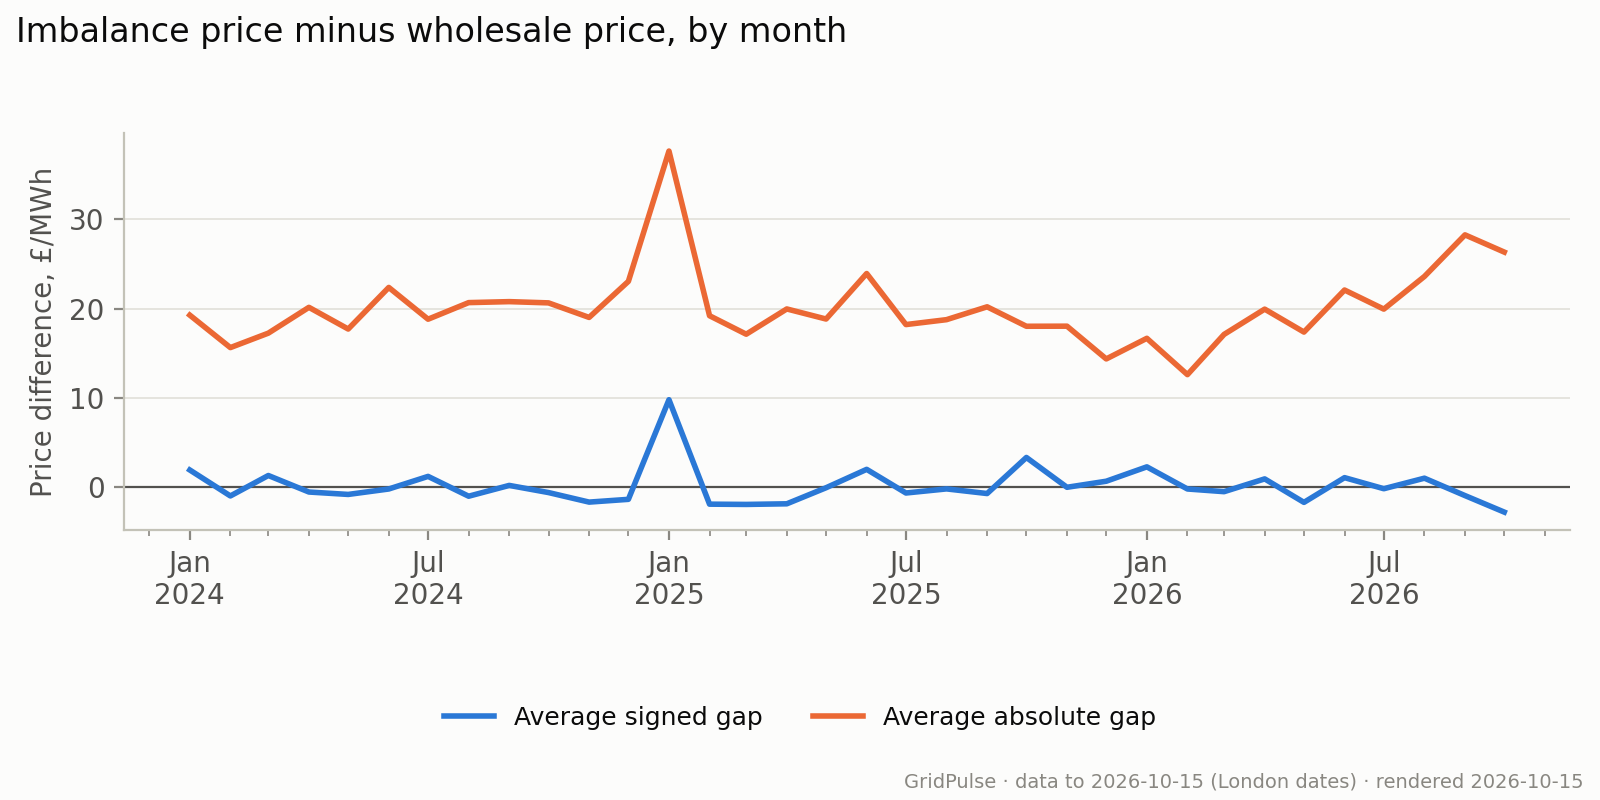
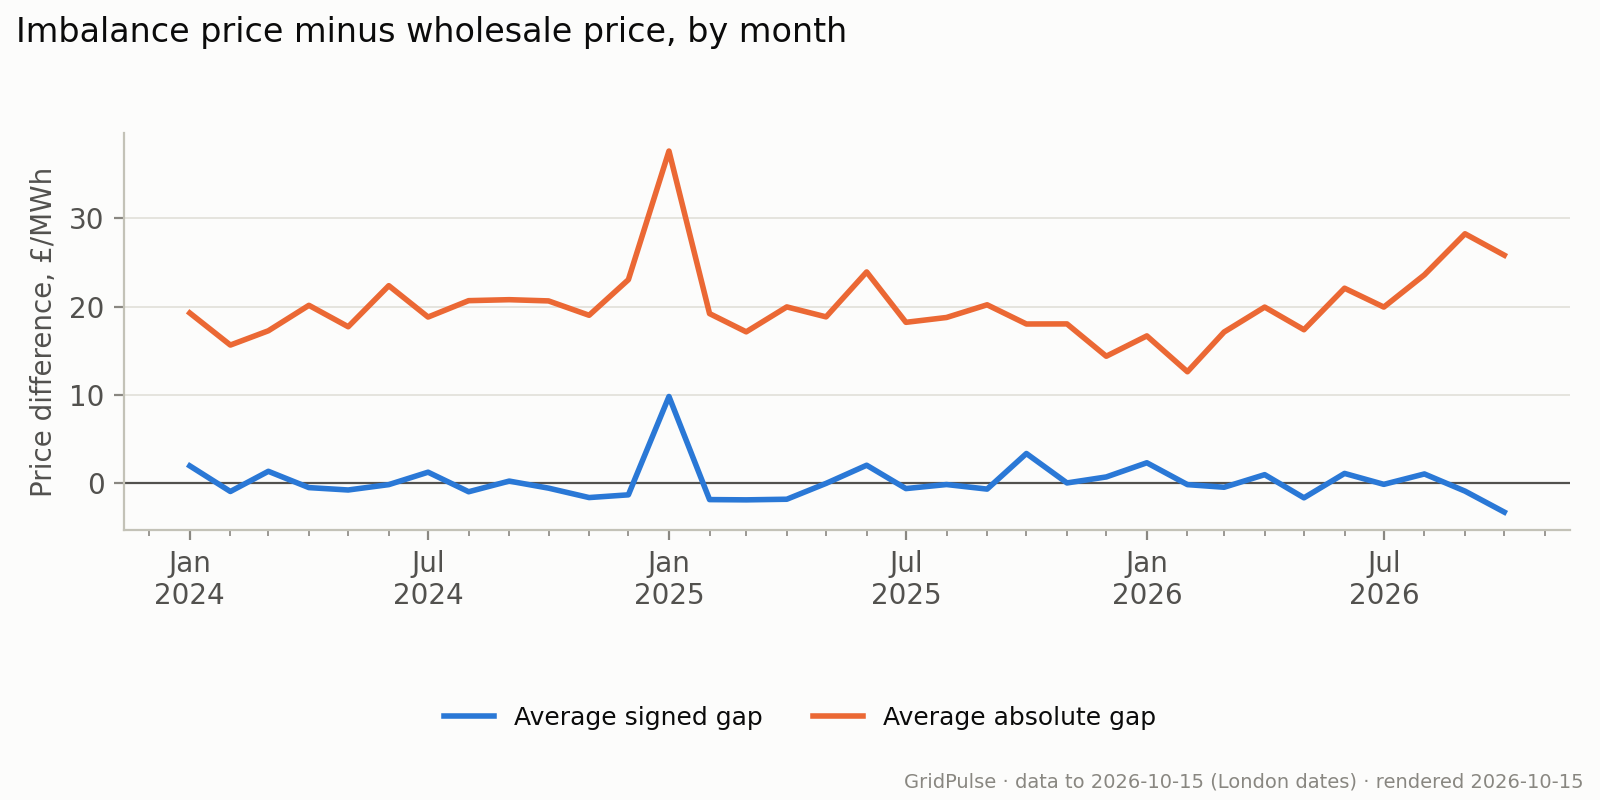
Rebuild from data to 2026-10-15, built 2026-10-15 20:50 UTC

diff --git a/index.html b/index.html
@@ -68,12 +68,12 @@ how electricity flows across borders, and how accurately demand is forecast.</p>
 <div><a href="#prices"><strong>Prices and grid conditions</strong></a><ul><li><a href="#negative_frequency">Negative Wholesale Price Frequency</a></li><li><a href="#negative_conditions">Grid Conditions During Negative Prices</a></li><li><a href="#imbalance_spread">Imbalance and Wholesale Price Gap</a></li><li><a href="#imbalance_conditions">Imbalance Prices by Grid Conditions</a></li></ul></div>
 <div><a href="#forecast-accuracy"><strong>Forecast accuracy</strong></a><ul><li><a href="#demand_accuracy">Average Demand Forecast Error by Hours Ahead</a></li><li><a href="#carbon_accuracy">Carbon Forecast Error by Month</a></li></ul></div>
 <div><a href="#data-quality"><strong>Data quality</strong></a><ul><li><a href="#coverage">Monthly Data Coverage</a></li><li><a href="#publication_coverage">Demand Forecast Publication Coverage</a></li></ul></div></nav></details>
-<p class="banner" id="built" data-built="2026-10-15T14:50:22Z" data-ingested="2026-10-15T14:00:34Z">
-Analysis built 2026-10-15 14:50 UTC. Each chart uses its stated window;
+<p class="banner" id="built" data-built="2026-10-15T20:50:18Z" data-ingested="2026-10-15T20:00:29Z">
+Analysis built 2026-10-15 20:50 UTC. Each chart uses its stated window;
 current-month results are provisional. Scheduled refresh: every 6 hours.</p>
 <details class="provenance"><summary>Data dates and source code</summary>
 <p class="meta">National carbon actuals: data to 2026-10-15 (London dates).
-Most recent ingestion across sources: 2026-10-15 14:00 UTC.
+Most recent ingestion across sources: 2026-10-15 20:00 UTC.
 These timestamps do not establish completeness or freshness for every source.
 “As of” refers to the build date. Select a chart to view it full size.</p>
 <a href="https://github.com/thrkld/gridpulse">Python, SQL and dbt project on GitHub</a></details>
@@ -203,14 +203,14 @@ These timestamps do not establish completeness or freshness for every source.
 <p>The lines compare the imbalance settlement price, used to settle differences between contracted and actual electricity volumes, with the APX wholesale price index. Blue shows imbalance price minus wholesale price: above zero means imbalance prices were higher. Orange shows the average size of the gap, regardless of which price was higher.</p>
 <div class="finding">
 <h4>Findings (as of 15 October 2026)</h4>
-<p>Across 48,838 matched half hours since 2024, imbalance prices averaged £0.20/MWh above wholesale prices. The average absolute gap was £20.02/MWh; it measures the size of differences in either direction.</p>
+<p>Across 48,838 matched half hours since 2024, imbalance prices averaged £0.19/MWh above wholesale prices. The average absolute gap was £20.01/MWh; it measures the size of differences in either direction.</p>
 </div>
 <a href="charts/imbalance_spread.png" aria-label="View full-size chart: Imbalance and Wholesale Price Gap"><img src="charts/imbalance_spread.png" alt="Imbalance and Wholesale Price Gap"></a>
 <p class="meta"><a href="charts/imbalance_spread.png">Open full-size chart</a></p>
 <h4>Limitations</h4>
 <p class="caveat">The gap is not a participant&#x27;s realised trading profit or imbalance cost. Monthly means can conceal large individual price spikes. The current month is incomplete.</p>
 <details><summary>How to read this graph and methodology</summary><p>For each half hour with both prices since January 2024, subtract wholesale price from imbalance price. Average these differences within each month for the blue line: above zero means imbalance prices were higher. For the orange line, take the absolute value of each difference before averaging, so positive and negative gaps cannot cancel. The overall finding weights monthly means by their matched-period counts; minor rounding differences are possible. Prices are in pounds per megawatt-hour (£/MWh), and today is excluded.</p></details>
-<details><summary>Numbers behind the chart</summary><div class="table-scroll" tabindex="0" role="region" aria-label="Data for Imbalance and Wholesale Price Gap"><table><thead><tr><th>Month</th><th>Mean spread GBP/MWh</th><th>Mean absolute spread GBP/MWh</th><th>Matched periods</th></tr></thead><tbody><tr><td>2024-01-01</td><td>1.92</td><td>19.27</td><td>1488</td></tr><tr><td>2024-02-01</td><td>-0.99</td><td>15.63</td><td>1392</td></tr><tr><td>2024-03-01</td><td>1.3</td><td>17.25</td><td>1486</td></tr><tr><td>2024-04-01</td><td>-0.55</td><td>20.14</td><td>1439</td></tr><tr><td>2024-05-01</td><td>-0.82</td><td>17.71</td><td>1488</td></tr><tr><td>2024-06-01</td><td>-0.21</td><td>22.37</td><td>1440</td></tr><tr><td>2024-07-01</td><td>1.2</td><td>18.81</td><td>1488</td></tr><tr><td>2024-08-01</td><td>-1.02</td><td>20.67</td><td>1488</td></tr><tr><td>2024-09-01</td><td>0.19</td><td>20.78</td><td>1440</td></tr><tr><td>2024-10-01</td><td>-0.61</td><td>20.64</td><td>1490</td></tr><tr><td>2024-11-01</td><td>-1.68</td><td>19.01</td><td>1440</td></tr><tr><td>2024-12-01</td><td>-1.37</td><td>23.05</td><td>1488</td></tr><tr><td>2025-01-01</td><td>9.79</td><td>37.65</td><td>1488</td></tr><tr><td>2025-02-01</td><td>-1.91</td><td>19.2</td><td>1344</td></tr><tr><td>2025-03-01</td><td>-1.94</td><td>17.13</td><td>1486</td></tr><tr><td>2025-04-01</td><td>-1.87</td><td>19.96</td><td>1440</td></tr><tr><td>2025-05-01</td><td>-0.07</td><td>18.83</td><td>1488</td></tr><tr><td>2025-06-01</td><td>1.99</td><td>23.93</td><td>1430</td></tr><tr><td>2025-07-01</td><td>-0.66</td><td>18.21</td><td>1488</td></tr><tr><td>2025-08-01</td><td>-0.2</td><td>18.76</td><td>1488</td></tr><tr><td>2025-09-01</td><td>-0.72</td><td>20.2</td><td>1439</td></tr><tr><td>2025-10-01</td><td>3.32</td><td>18.02</td><td>1490</td></tr><tr><td>2025-11-01</td><td>-0.02</td><td>18.03</td><td>1440</td></tr><tr><td>2025-12-01</td><td>0.66</td><td>14.36</td><td>1488</td></tr><tr><td>2026-01-01</td><td>2.27</td><td>16.67</td><td>1488</td></tr><tr><td>2026-02-01</td><td>-0.21</td><td>12.6</td><td>1344</td></tr><tr><td>2026-03-01</td><td>-0.51</td><td>17.11</td><td>1486</td></tr><tr><td>2026-04-01</td><td>0.92</td><td>19.94</td><td>1440</td></tr><tr><td>2026-05-01</td><td>-1.71</td><td>17.37</td><td>1486</td></tr><tr><td>2026-06-01</td><td>1.06</td><td>22.08</td><td>1440</td></tr><tr><td>2026-07-01</td><td>-0.18</td><td>19.94</td><td>1482</td></tr><tr><td>2026-08-01</td><td>1</td><td>23.6</td><td>1488</td></tr><tr><td>2026-09-01</td><td>-0.95</td><td>28.26</td><td>1436</td></tr><tr><td>2026-10-01</td><td>-2.8</td><td>26.33</td><td>672</td></tr></tbody></table></div></details>
+<details><summary>Numbers behind the chart</summary><div class="table-scroll" tabindex="0" role="region" aria-label="Data for Imbalance and Wholesale Price Gap"><table><thead><tr><th>Month</th><th>Mean spread GBP/MWh</th><th>Mean absolute spread GBP/MWh</th><th>Matched periods</th></tr></thead><tbody><tr><td>2024-01-01</td><td>1.92</td><td>19.27</td><td>1488</td></tr><tr><td>2024-02-01</td><td>-0.99</td><td>15.63</td><td>1392</td></tr><tr><td>2024-03-01</td><td>1.3</td><td>17.25</td><td>1486</td></tr><tr><td>2024-04-01</td><td>-0.55</td><td>20.14</td><td>1439</td></tr><tr><td>2024-05-01</td><td>-0.82</td><td>17.71</td><td>1488</td></tr><tr><td>2024-06-01</td><td>-0.21</td><td>22.37</td><td>1440</td></tr><tr><td>2024-07-01</td><td>1.2</td><td>18.81</td><td>1488</td></tr><tr><td>2024-08-01</td><td>-1.02</td><td>20.67</td><td>1488</td></tr><tr><td>2024-09-01</td><td>0.19</td><td>20.78</td><td>1440</td></tr><tr><td>2024-10-01</td><td>-0.61</td><td>20.64</td><td>1490</td></tr><tr><td>2024-11-01</td><td>-1.68</td><td>19.01</td><td>1440</td></tr><tr><td>2024-12-01</td><td>-1.37</td><td>23.05</td><td>1488</td></tr><tr><td>2025-01-01</td><td>9.79</td><td>37.65</td><td>1488</td></tr><tr><td>2025-02-01</td><td>-1.91</td><td>19.2</td><td>1344</td></tr><tr><td>2025-03-01</td><td>-1.94</td><td>17.13</td><td>1486</td></tr><tr><td>2025-04-01</td><td>-1.87</td><td>19.96</td><td>1440</td></tr><tr><td>2025-05-01</td><td>-0.07</td><td>18.83</td><td>1488</td></tr><tr><td>2025-06-01</td><td>1.99</td><td>23.93</td><td>1430</td></tr><tr><td>2025-07-01</td><td>-0.66</td><td>18.21</td><td>1488</td></tr><tr><td>2025-08-01</td><td>-0.2</td><td>18.76</td><td>1488</td></tr><tr><td>2025-09-01</td><td>-0.72</td><td>20.2</td><td>1439</td></tr><tr><td>2025-10-01</td><td>3.32</td><td>18.02</td><td>1490</td></tr><tr><td>2025-11-01</td><td>-0.02</td><td>18.03</td><td>1440</td></tr><tr><td>2025-12-01</td><td>0.66</td><td>14.36</td><td>1488</td></tr><tr><td>2026-01-01</td><td>2.27</td><td>16.67</td><td>1488</td></tr><tr><td>2026-02-01</td><td>-0.21</td><td>12.6</td><td>1344</td></tr><tr><td>2026-03-01</td><td>-0.51</td><td>17.11</td><td>1486</td></tr><tr><td>2026-04-01</td><td>0.92</td><td>19.94</td><td>1440</td></tr><tr><td>2026-05-01</td><td>-1.71</td><td>17.37</td><td>1486</td></tr><tr><td>2026-06-01</td><td>1.06</td><td>22.08</td><td>1440</td></tr><tr><td>2026-07-01</td><td>-0.18</td><td>19.94</td><td>1482</td></tr><tr><td>2026-08-01</td><td>1</td><td>23.6</td><td>1488</td></tr><tr><td>2026-09-01</td><td>-0.95</td><td>28.26</td><td>1436</td></tr><tr><td>2026-10-01</td><td>-3.33</td><td>25.83</td><td>672</td></tr></tbody></table></div></details>
 </section>
 <section class="chart" id="imbalance_conditions">
 <h3 class="chart-title">Imbalance Prices by Grid Conditions</h3>
@@ -225,7 +225,7 @@ These timestamps do not establish completeness or freshness for every source.
 <h4>Limitations</h4>
 <p class="caveat">Averages in small groups are unstable and sensitive to extreme prices. Demand and renewable share alone cannot explain price formation; season, fuel prices and system constraints also vary.</p>
 <details><summary>How to read this graph and methodology</summary><p>Rows are 5 GW demand bands; columns are 20-percentage-point renewable bands. Lower bounds are included and upper bounds excluded, except the final renewable band includes 100%. Renewables comprises wind, solar and hydro. Red means a positive average price; blue means a negative average, with stronger colour indicating a larger magnitude. Every eligible half hour since January 2024 needs positive settled demand, a renewable share from 0% to 100% and an imbalance price. The colour scale and headline only compare groups with at least 100 observations, a descriptive filter rather than a statistical significance test. All other observed averages remain labelled in striped cells and listed in the data table. Today is excluded.</p></details>
-<details><summary>Numbers behind the chart</summary><div class="table-scroll" tabindex="0" role="region" aria-label="Data for Imbalance Prices by Grid Conditions"><table><thead><tr><th>Demand bin lower bound GW</th><th>Renewable bin lower bound %</th><th>Mean imbalance price GBP/MWh</th><th>Matched periods</th></tr></thead><tbody><tr><td>10</td><td>40</td><td>60.34</td><td>45</td></tr><tr><td>10</td><td>60</td><td>-7.07</td><td>119</td></tr><tr><td>15</td><td>0</td><td>85.6</td><td>710</td></tr><tr><td>15</td><td>20</td><td>81.71</td><td>2030</td></tr><tr><td>15</td><td>40</td><td>57.59</td><td>2729</td></tr><tr><td>15</td><td>60</td><td>10.61</td><td>1962</td></tr><tr><td>15</td><td>80</td><td>13.92</td><td>7</td></tr><tr><td>20</td><td>0</td><td>93.46</td><td>2153</td></tr><tr><td>20</td><td>20</td><td>91.67</td><td>6150</td></tr><tr><td>20</td><td>40</td><td>79.05</td><td>6281</td></tr><tr><td>20</td><td>60</td><td>33.82</td><td>2691</td></tr><tr><td>25</td><td>0</td><td>107.18</td><td>1981</td></tr><tr><td>25</td><td>20</td><td>100.56</td><td>5644</td></tr><tr><td>25</td><td>40</td><td>88.28</td><td>3884</td></tr><tr><td>25</td><td>60</td><td>56.67</td><td>1181</td></tr><tr><td>30</td><td>0</td><td>115.53</td><td>1165</td></tr><tr><td>30</td><td>20</td><td>94.46</td><td>2398</td></tr><tr><td>30</td><td>40</td><td>86.66</td><td>2322</td></tr><tr><td>30</td><td>60</td><td>69.13</td><td>355</td></tr><tr><td>35</td><td>0</td><td>126.58</td><td>826</td></tr><tr><td>35</td><td>20</td><td>98.39</td><td>1939</td></tr><tr><td>35</td><td>40</td><td>90.36</td><td>1228</td></tr><tr><td>35</td><td>60</td><td>91.03</td><td>5</td></tr><tr><td>40</td><td>0</td><td>199.64</td><td>307</td></tr><tr><td>40</td><td>20</td><td>114.72</td><td>582</td></tr><tr><td>40</td><td>40</td><td>104.88</td><td>97</td></tr><tr><td>45</td><td>0</td><td>1,967</td><td>6</td></tr><tr><td>45</td><td>20</td><td>183.04</td><td>18</td></tr></tbody></table></div></details>
+<details><summary>Numbers behind the chart</summary><div class="table-scroll" tabindex="0" role="region" aria-label="Data for Imbalance Prices by Grid Conditions"><table><thead><tr><th>Demand bin lower bound GW</th><th>Renewable bin lower bound %</th><th>Mean imbalance price GBP/MWh</th><th>Matched periods</th></tr></thead><tbody><tr><td>10</td><td>40</td><td>60.34</td><td>45</td></tr><tr><td>10</td><td>60</td><td>-7.07</td><td>119</td></tr><tr><td>15</td><td>0</td><td>85.6</td><td>710</td></tr><tr><td>15</td><td>20</td><td>81.71</td><td>2030</td></tr><tr><td>15</td><td>40</td><td>57.59</td><td>2729</td></tr><tr><td>15</td><td>60</td><td>10.61</td><td>1962</td></tr><tr><td>15</td><td>80</td><td>13.92</td><td>7</td></tr><tr><td>20</td><td>0</td><td>93.46</td><td>2153</td></tr><tr><td>20</td><td>20</td><td>91.67</td><td>6150</td></tr><tr><td>20</td><td>40</td><td>79.05</td><td>6281</td></tr><tr><td>20</td><td>60</td><td>33.82</td><td>2691</td></tr><tr><td>25</td><td>0</td><td>107.18</td><td>1981</td></tr><tr><td>25</td><td>20</td><td>100.56</td><td>5644</td></tr><tr><td>25</td><td>40</td><td>88.19</td><td>3884</td></tr><tr><td>25</td><td>60</td><td>56.67</td><td>1181</td></tr><tr><td>30</td><td>0</td><td>115.53</td><td>1165</td></tr><tr><td>30</td><td>20</td><td>94.46</td><td>2398</td></tr><tr><td>30</td><td>40</td><td>86.66</td><td>2322</td></tr><tr><td>30</td><td>60</td><td>69.13</td><td>355</td></tr><tr><td>35</td><td>0</td><td>126.58</td><td>826</td></tr><tr><td>35</td><td>20</td><td>98.39</td><td>1939</td></tr><tr><td>35</td><td>40</td><td>90.36</td><td>1228</td></tr><tr><td>35</td><td>60</td><td>91.03</td><td>5</td></tr><tr><td>40</td><td>0</td><td>199.64</td><td>307</td></tr><tr><td>40</td><td>20</td><td>114.72</td><td>582</td></tr><tr><td>40</td><td>40</td><td>104.88</td><td>97</td></tr><tr><td>45</td><td>0</td><td>1,967</td><td>6</td></tr><tr><td>45</td><td>20</td><td>183.04</td><td>18</td></tr></tbody></table></div></details>
 </section>
 <h2 class="topic-heading" id="forecast-accuracy">Forecast accuracy</h2><section class="chart" id="demand_accuracy">
 <h3 class="chart-title">Average Demand Forecast Error by Hours Ahead</h3>
